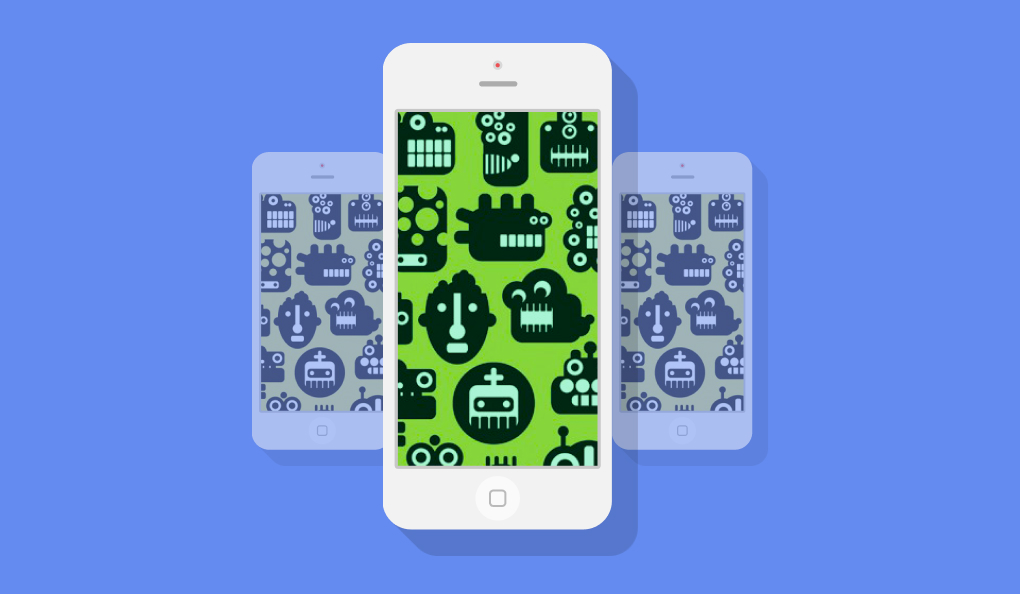
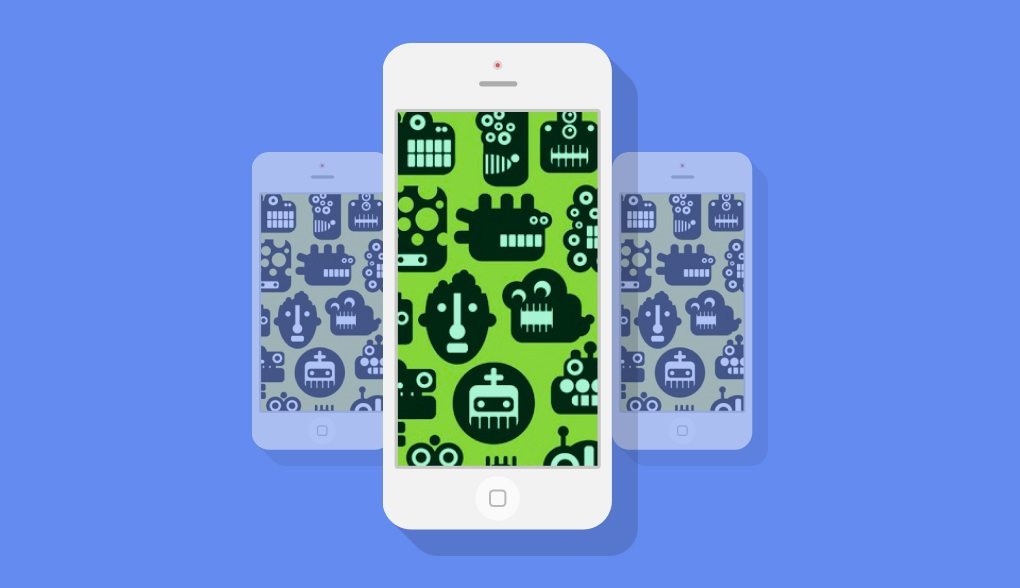
feat: slider

Changed region(s): [[0.2431, 0.1837, 0.7598, 0.949], [0.0, 0.9796, 1.0, 1.0], [0.4559, 0.1224, 0.5167, 0.1531]]

diff --git a/index.html b/index.html
@@ -28,27 +28,41 @@
     <div class="sliderBlock__bg">
       <div class="wrapper">
         <div class="slider">
-          <span class="arrow">
+
+          <div class="arrow">
             <div class="arrow-l">
             </div>
-          </span>
-          <div class="phones">
-            <div class="phone iphone-v">
-              <div class="display-off">
-                <div class="display-v-off"></div>
-              </div>
-              <div class="shadow-v"><img src="assets/images/Iphone-Vertical.png" alt="Iphone-Vertical"></div>
+          </div>
+
+          <div class="slider_window">
+            <div class="slide" data-bgc='#f06c64'>
+              <div class="phones">
+                <div class="phone iphone-v">
+                  <div class="display-off">
+                    <div class="display-v-off"></div>
+                  </div>
+                  <div class="shadow-v"><img src="assets/images/Iphone-Vertical.png" alt="Iphone-Vertical"></div>
+                </div>
+                <div class="phone iphone-h">
+                  <div class="display-off">
+                    <div class="display-h-off"></div>
+                  </div>
+                  <div class="shadow-h"><img src="assets/images/Iphone-Horizontal.png" alt="Iphone-Horizontal"></div>
+                </div>
+              </div> 
             </div>
-            <div class="phone iphone-h">
-              <div class="display-off">
-                <div class="display-h-off"></div>
+
+            <div class="slide" data-bgc='#648bf0'>
+              <div class="slide2">
+                <img src="/assets/images/Slide-2.jpg" alt="slide2" width="900">
               </div>
-              <div class="shadow-h"> <img src="assets/images/Iphone-Horizontal.png" alt="Iphone-Horizontal"></div>
             </div>
           </div>
-          <span class="arrow">
+
+          <div class="arrow">
             <div class="arrow-r"></div>
-          </span>
+          </div>
+
         </div>
       </div>
 

diff --git a/style.css b/style.css
@@ -114,7 +114,7 @@ main {
 }
 
 .phones {
-    position: relative;
+    position: relative;  
 }
 
 .phone {
@@ -127,7 +127,7 @@ main {
 
 .iphone-v {
     top: 53px;
-    left: 113px;
+    left: 55px;
 }
 
 .shadow-v {
@@ -149,7 +149,7 @@ main {
 }
 .iphone-h {
     top: 173px;
-    left: 424px;
+    left: 366px;
 }
 
 .shadow-h {
@@ -167,6 +167,44 @@ main {
     top: 14px;
     left: 60px;
 }
+.slider{
+    display: flex;
+    user-select: none; 
+}
+ .slider_window {
+    height: 588px; 
+} 
+.slide {
+    display: block;
+    height: 588px;
+    width: 900px;
+
+    animation-name: slide;
+    animation-duration: 1s;
+    -webkit-animation-name: slide;
+    -webkit-animation-duration:1s;
+}
+
+
+@keyframes slide {
+    from {
+        opacity: .4
+    }
+    to {
+        opacity: 1
+    }
+}
+@-webkit-keyframes slide {
+    from {
+        opacity: .4
+    }
+    to {
+        opacity: 1
+    }
+}
+.arrow {
+    width: 58px;
+}
 .arrow div {
     cursor: pointer;
     background-repeat: no-repeat;
@@ -179,7 +217,7 @@ main {
 .arrow-r {
     background-image: url(assets/images/chev-right.png);
     float: right;
-    margin-right: 40px;
+    margin-right: 35px;
 }
 
 .arrow-r:hover {

diff --git a/script.js b/script.js
@@ -12,3 +12,30 @@ phones.forEach(el => el.addEventListener('click',(event) =>{
     let off = el.querySelector('.display-off');
     off.hidden = !off.hidden;
 }));
+
+
+let arrowRight = document.querySelector('.arrow-r');
+arrowRight.addEventListener('click', () => showSlides( mainSlide +=1 ));
+
+let arrowLeft = document.querySelector('.arrow-l');
+arrowLeft.addEventListener('click', () => showSlides( mainSlide -=1 ));
+
+/* Основная функция слайдера */
+let slides = document.querySelectorAll('.slide');
+let mainSlide = 0;
+let slidesBgc = document.querySelector('.sliderBlock__bg');
+function showSlides(n) {  
+    
+    if (n > slides.length - 1)mainSlide = 0 
+ 
+    if (n < 0) mainSlide = slides.length - 1;
+
+    for (let i = 0; i < slides.length; i++) {
+        slides[i].style.display = "none";
+    }
+    slides[mainSlide].style.display = "block";
+
+    slidesBgc.style.backgroundColor = slides[mainSlide].dataset['bgc'];
+    slidesBgc.style.borderColor = slides[mainSlide].dataset['bgc'];
+}
+showSlides(mainSlide);
